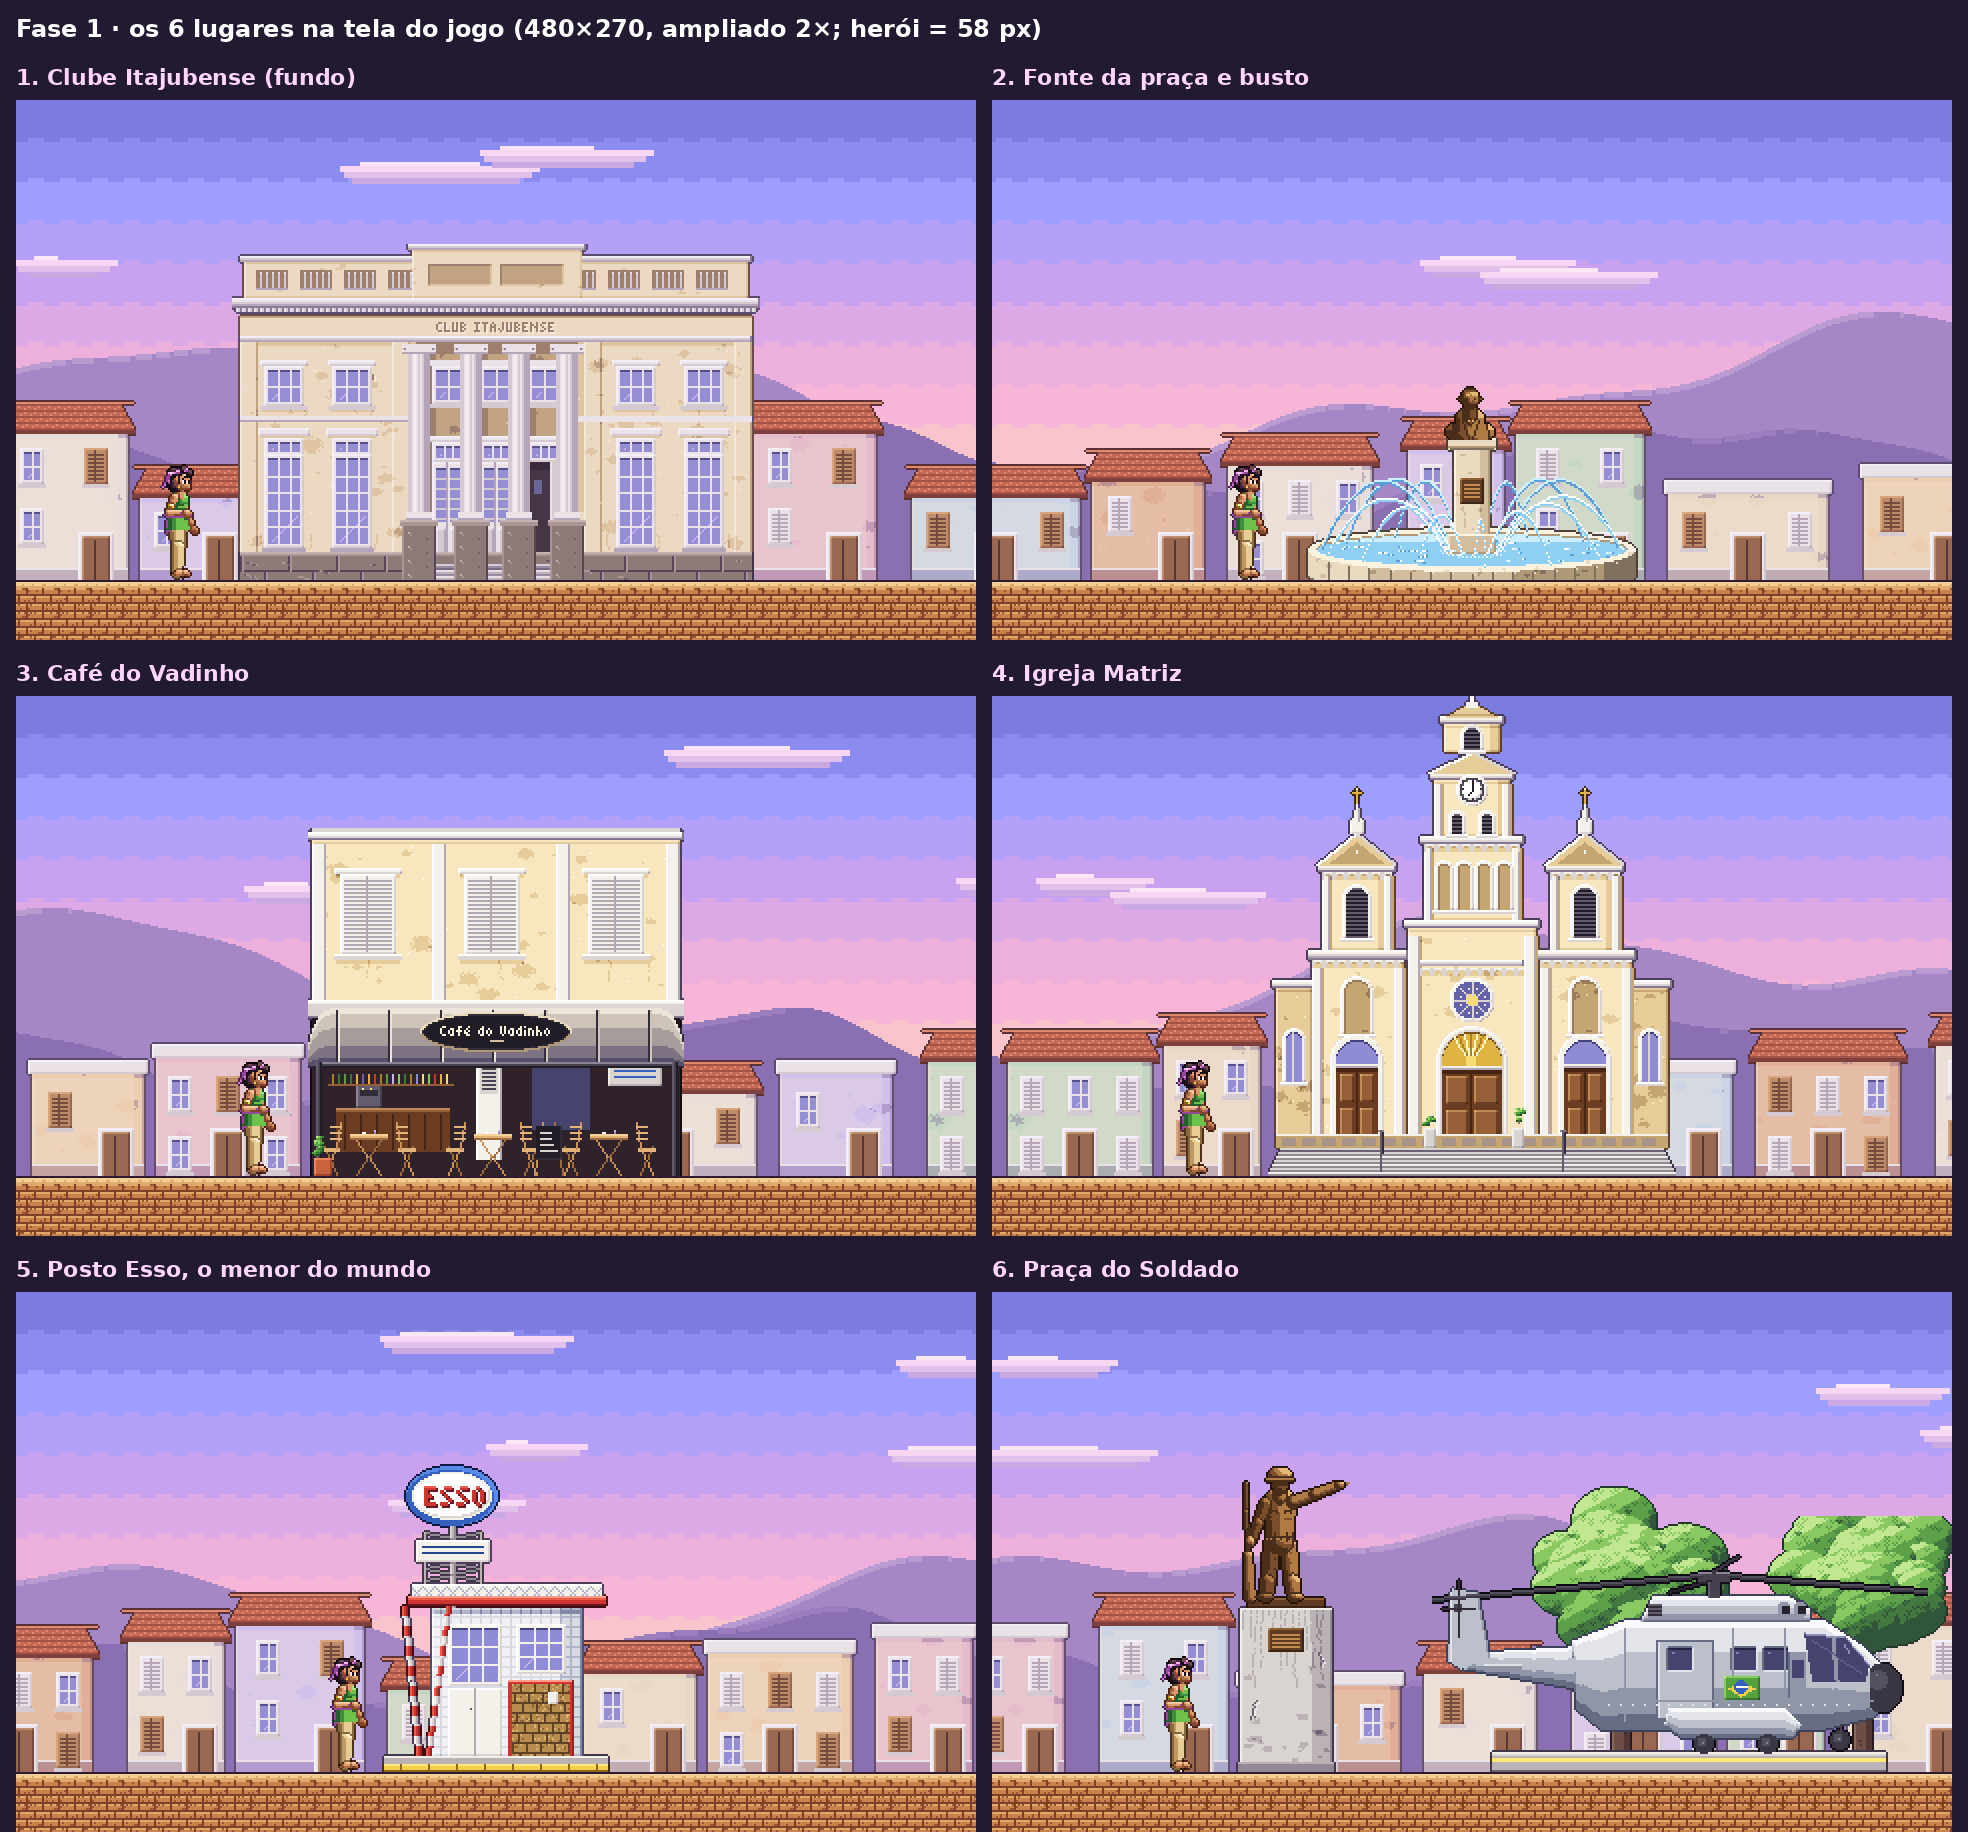
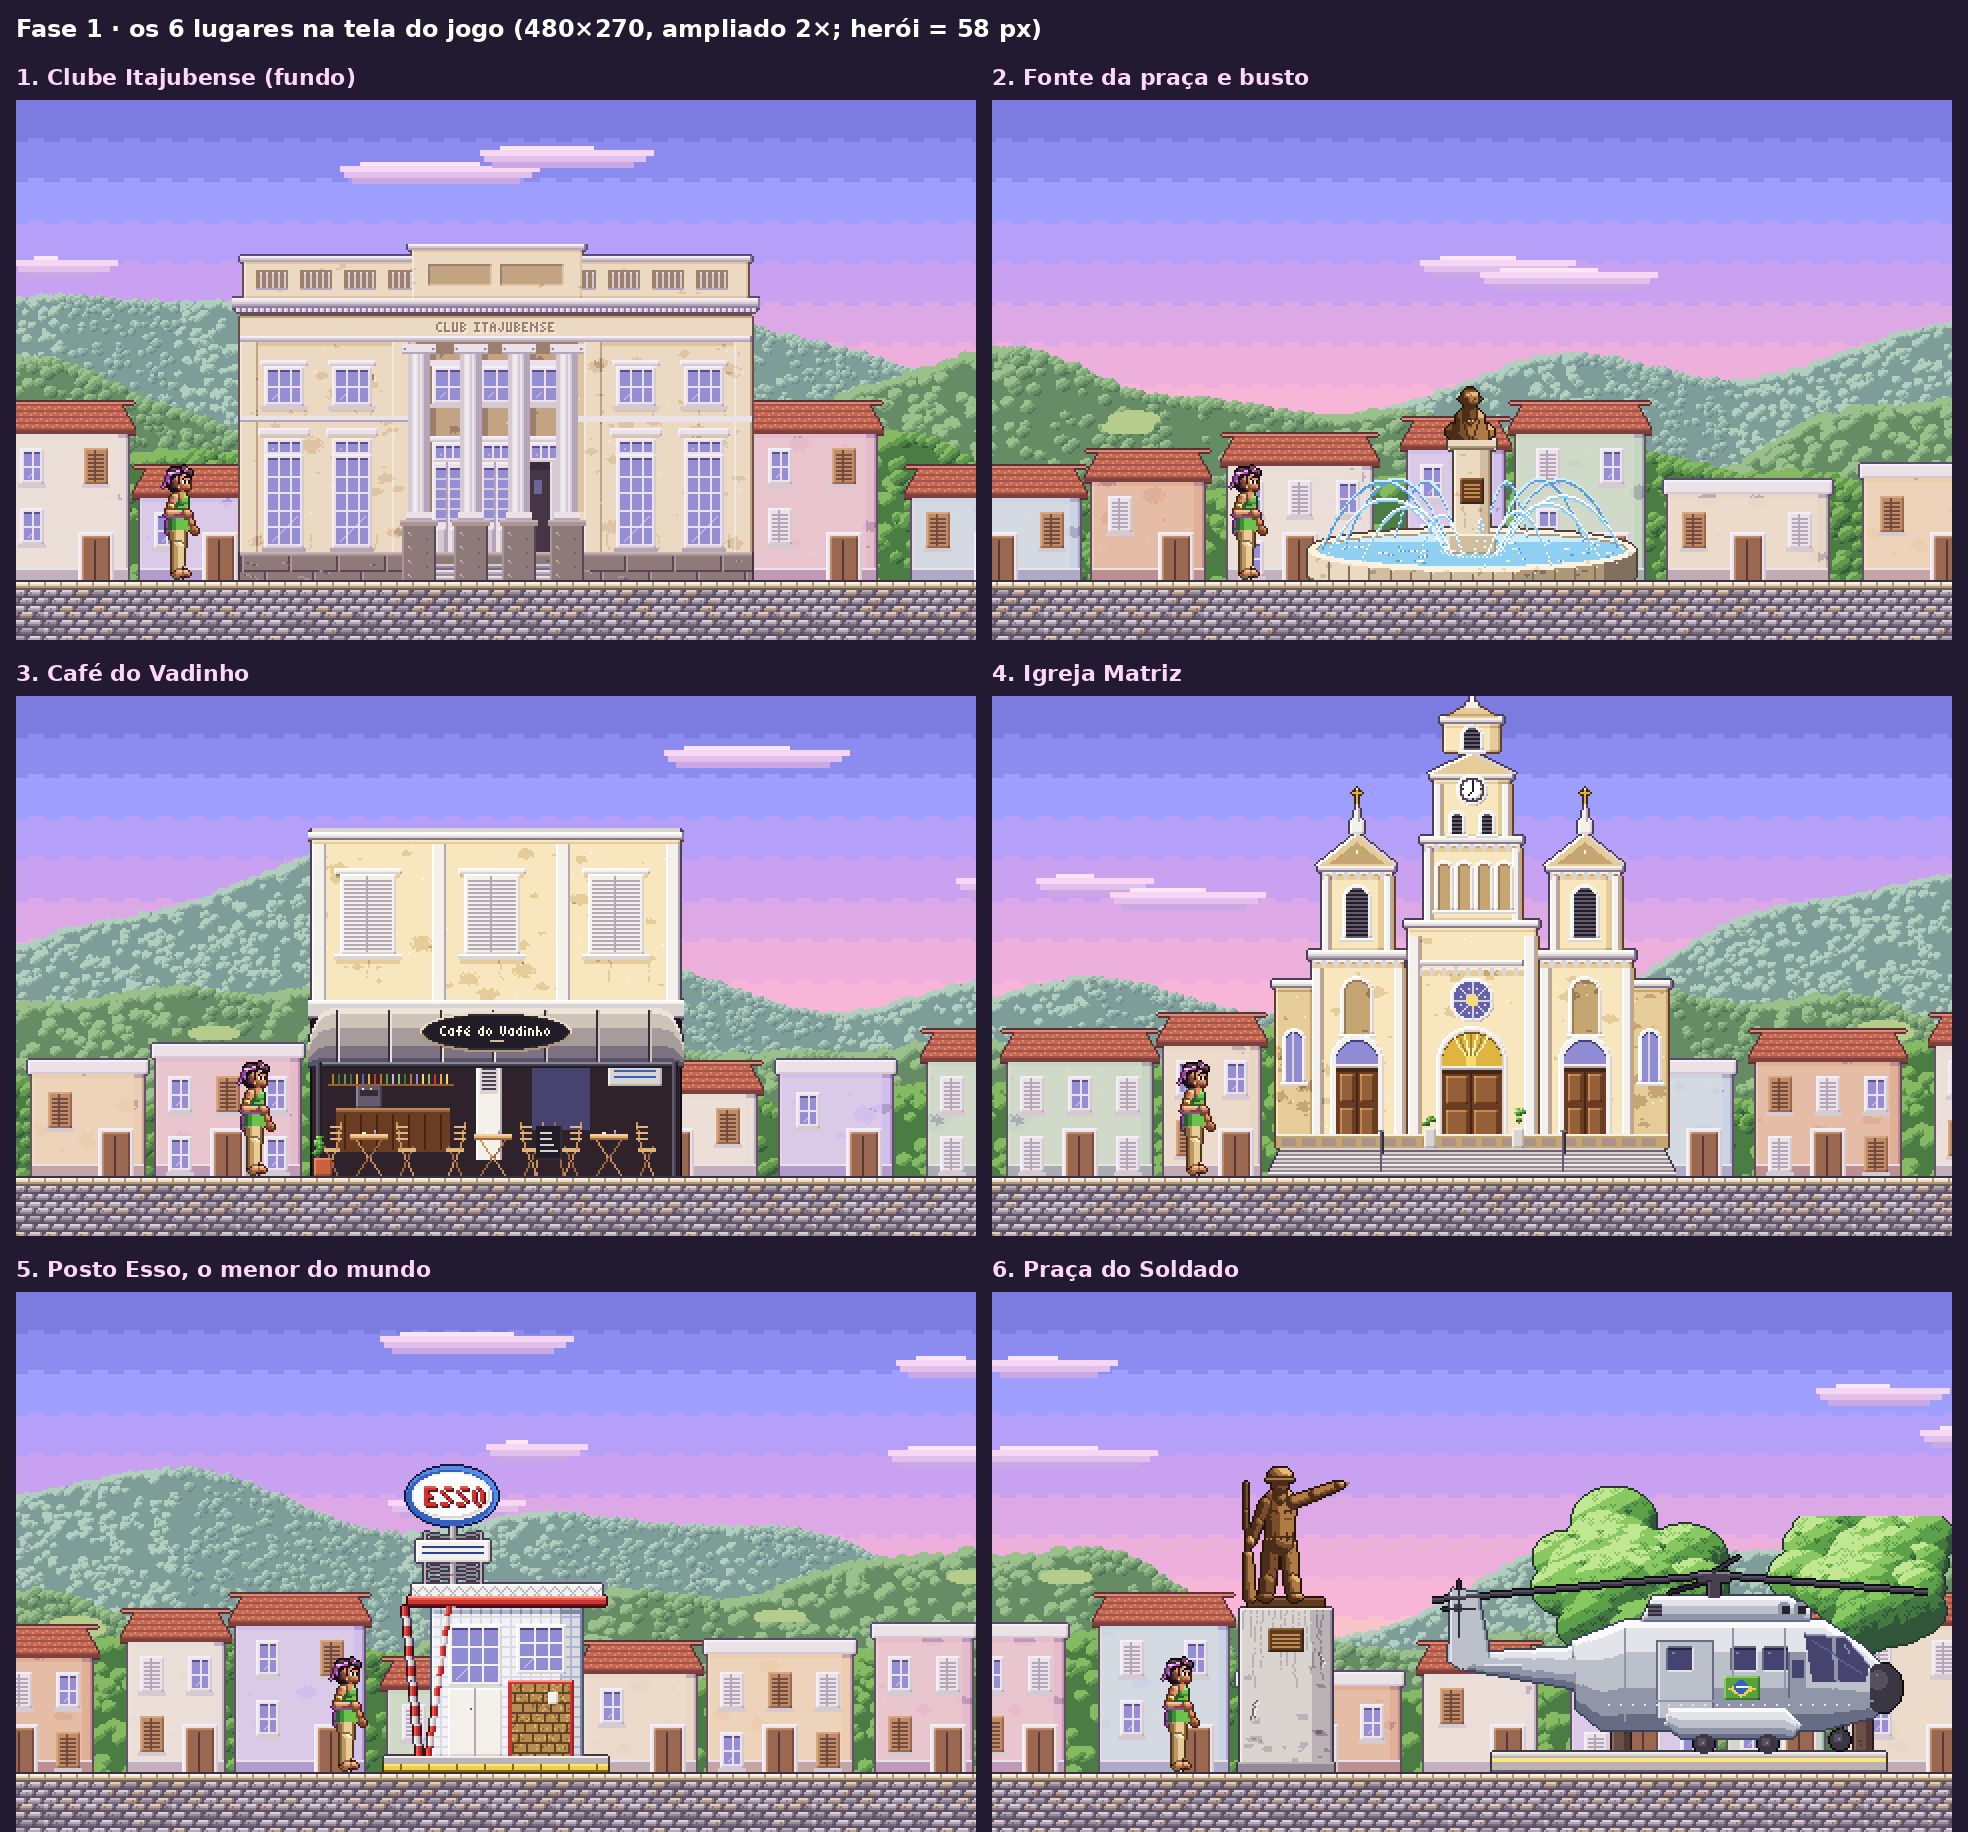
Prévia: rua de paralelepípedo e Serra da Mantiqueira verde com mata
Chão em tiles 16x16 de paralelepípedo (3 variações, meio-fio de granito) e
morros do fundo em 3 camadas verdes cobertas de copas, mais azuladas ao longe.
Pranchas, tira e telas regeneradas. Só prévia: src/ não foi alterado.

Claude-Session: https://claude.ai/code/session_01PQYRHCjcJDFveiPkYtVM8o

diff --git a/ferramentas/arte/gerar_lugares.py b/ferramentas/arte/gerar_lugares.py
@@ -1083,21 +1083,73 @@ def ceu(w, h=TELA_A):
     return img
 
 
+# Serra da Mantiqueira: 3 camadas verdes cobertas de mata. Quanto mais longe, mais azulada/lilás e com menos
+# contraste (perspectiva atmosférica, guia: fundo com 2 a 3 tons). Cada rampa: luz, base, sombra, funda.
+SERRA = [
+    # (rampa, base da crista, amplitude, frequências, raio das copas)
+    (['#B2CEBE', '#94B4A8', '#7E9C98', '#6E8890'], 132, 34, ((1.1, 1, 0.3), (2.7, 0.5, 1.2), (6.1, 0.15, 2)), 2.5),
+    (['#9CC08C', '#7FA676', '#668C66', '#527458'], 160, 24, ((1.7, 1, 2.1), (4.3, 0.4, 0.7), (9.7, 0.12, 1)), 3.5),
+    (['#86BA62', '#62994E', '#4A7C44', '#355E3A'], 188, 16, ((2.6, 1, 0.9), (6.2, 0.35, 2.4), (13, 0.1, 0.4)), 4.5),
+]
+
+
+def _copinha(a, cx, cy, r, rampa):
+    """Copa de árvore redonda vista de longe: luz em cima à esquerda, sombra embaixo à direita."""
+    h, w = a.shape[:2]
+    x0, x1 = max(0, int(cx - r - 1)), min(w, int(cx + r + 2))
+    y0, y1 = max(0, int(cy - r - 1)), min(h, int(cy + r + 2))
+    if x0 >= x1 or y0 >= y1:
+        return
+    yy, xx = np.mgrid[y0:y1, x0:x1]
+    dx, dy = (xx + 0.5 - cx) / r, (yy + 0.5 - cy) / (r * 0.85)
+    dentro = dx * dx + dy * dy <= 1
+    luz = -dx * 0.6 - dy * 0.8
+    tom = np.where(luz > 0.45, 0, np.where(luz > -0.15, 1, np.where(luz > -0.6, 2, 3)))
+    cores = np.array([hex_rgb(c) for c in rampa], np.uint8)
+    reg = a[y0:y1, x0:x1]
+    reg[dentro, :3] = cores[tom[dentro]]
+    reg[dentro, 3] = 255
+
+
 def morros(w, h=TELA_A):
-    """Serra ao fundo (Itajubá fica no pé da Mantiqueira): duas camadas lilás de pouco contraste."""
-    img = Image.new('RGBA', (w, h), (0, 0, 0, 0))
-    a = np.array(img)
-    for cor, cor_luz, base, amp, freqs in (
-            ('#A487C4', '#B99BD2', 150, 30, ((1.3, 1, 0), (3.1, 0.45, 1), (7.3, 0.12, 2))),
-            ('#8A6FB2', '#9A7EBE', 182, 20, ((2.2, 1, 2), (5.3, 0.3, 0.5), (11, 0.1, 1)))):
+    """Serra da Mantiqueira ao fundo (Itajubá fica no pé dela): morros verdes cobertos de mata."""
+    a = np.zeros((h, w, 4), np.uint8)
+    rnd = np.random.RandomState(12)
+    for rampa, base, amp, freqs, r in SERRA:
+        def crista(x):
+            return base - sum(amp * k * math.sin(x / 480 * math.pi * f + fa) for f, k, fa in freqs)
+        cores = [hex_rgb(c) for c in rampa]
+        # massa do morro: encosta virada para a luz (esquerda) mais clara, a outra na base
         for x in range(w):
-            y = base - sum(amp * a_ * math.sin(x / 480 * math.pi * f + fa) for f, a_, fa in freqs)
-            y = int(y)
-            a[y:, x, :3] = hex_rgb(cor)
+            y = int(crista(x))
+            a[y:, x, :3] = cores[2]
             a[y:, x, 3] = 255
-            yl = base - sum(amp * a_ * math.sin((x - 3) / 480 * math.pi * f + fa) for f, a_, fa in freqs)
-            if yl > y + 0.5:  # encosta que recebe luz (lado esquerdo dos picos)
-                a[y:y + 3, x, :3] = hex_rgb(cor_luz)
+        # encosta virada para a luz (morro subindo para a direita): copas um tom mais claras
+        clara = [rampa[0], rampa[0], rampa[1], rampa[2]]
+
+        def tons(xx):
+            return clara if crista(xx + 6) < crista(xx - 6) else rampa
+        # mata: copas encostadas umas nas outras na crista e espalhadas pela encosta
+        passo = max(2, int(r * 1.3))
+        for x in range(-4, w + 4, passo):
+            xx = x + rnd.uniform(-1, 1)
+            _copinha(a, xx, crista(xx) + rnd.uniform(-0.5, 1.5), r * rnd.uniform(0.8, 1.2), tons(xx))
+        n = int(w * (h - base + amp) / (r * r * 4))
+        for _ in range(n):
+            xx = rnd.uniform(0, w)
+            yy = crista(xx) + rnd.uniform(2, h - base + amp)
+            if yy < h:
+                _copinha(a, xx, yy, r * rnd.uniform(0.7, 1.15), tons(xx))
+        # clareiras de pasto (manchas mais claras e lisas), só na camada do meio
+        if r == 3.5:
+            for _ in range(w // 220):
+                cx, cy = rnd.uniform(0, w), 0
+                cy = crista(cx) + rnd.uniform(10, 22)
+                for yy in range(int(cy - 3), int(cy + 4)):
+                    meia = int(14 * math.sqrt(max(0, 1 - ((yy - cy) / 4) ** 2)))
+                    for xx in range(int(cx - meia), int(cx + meia)):
+                        if 0 <= xx < w and 0 <= yy < h and a[yy, xx, 3]:
+                            a[yy, xx, :3] = hex_rgb('#B6CC8A')
     return Image.fromarray(a, 'RGBA')
 
 
@@ -1180,10 +1232,62 @@ def tingir(img, cor, t):
     return Image.fromarray(a.clip(0, 255).astype(np.uint8), 'RGBA')
 
 
+# Chão de paralelepípedo (rua de Itajubá): meio-fio de granito no alto e pedras em fiadas desencontradas.
+# Tiles de 16x16 como os do jogo, em 3 variações para a repetição não aparecer.
+PEDRA = {   # granito cinza aquecido pelo entardecer: luz, base, sombra, junta, contorno
+    'fria': ['#DCD2D6', '#B6AAB4', '#8E8292', '#5E5268', '#3A3044'],
+    'quente': ['#E2CDBE', '#BCA294', '#937A74', '#5E5268', '#3A3044'],
+    'escura': ['#B8ACB6', '#968A98', '#766A7E', '#5E5268', '#3A3044'],
+}
+
+
+def tiles_paralelepipedo(semente):
+    rnd = np.random.RandomState(semente)
+    topo = np.zeros((16, 16, 4), np.uint8)
+    meio = np.zeros((16, 16, 4), np.uint8)
+    for t_, y_ini in ((topo, 5), (meio, 0)):
+        t_[:, :, 3] = 255
+        t_[:, :, :3] = hex_rgb(PEDRA['fria'][3])          # junta
+        for fiada in range((16 - y_ini) // 4 + 1):
+            y0 = y_ini + fiada * 4
+            desloc = 4 if (fiada + (0 if t_ is topo else 1)) % 2 else 0
+            for x0 in range(-8 + desloc, 16, 8):
+                c = PEDRA[rnd.choice(['fria', 'fria', 'quente', 'escura'])]
+                for y in range(y0, min(16, y0 + 3)):
+                    for x in range(x0, x0 + 7):
+                        if not 0 <= x < 16:
+                            continue
+                        if y == y0 and x < x0 + 6:
+                            tom = 0                          # aresta de cima pega luz
+                        elif x == x0 + 6 or y == y0 + 2:
+                            tom = 2                          # lado e pé na sombra
+                        else:
+                            tom = 1
+                        if (x == x0 and y == y0) or (x == x0 + 6 and y == y0 + 2):
+                            continue                         # cantos arredondados
+                        t_[y, x, :3] = hex_rgb(c[tom])
+                if rnd.rand() < 0.4:                         # desgaste: um pontinho escuro na pedra
+                    xx, yy = x0 + rnd.randint(1, 5), y0 + 1
+                    if 0 <= xx < 16 and yy < 16:
+                        t_[yy, xx, :3] = hex_rgb(c[2])
+    # meio-fio de granito claro no alto do tile de cima
+    gr = ['#3A3044', '#FBF2E0', '#EADBC0', '#AE9878', '#6E5E58']
+    for y, c in enumerate(gr):
+        topo[y, :, :3] = hex_rgb(c)
+    for x in range(0, 16, 8):                                # juntas do meio-fio
+        topo[1:4, x, :3] = hex_rgb('#AE9878')
+    return Image.fromarray(topo, 'RGBA'), Image.fromarray(meio, 'RGBA')
+
+
+TILES_RUA = [tiles_paralelepipedo(s) for s in (1, 2, 3)]
+
+
 def chao(w):
     img = Image.new('RGBA', (w, TELA_A), (0, 0, 0, 0))
-    topo, meio = tile('chaoTopo'), tile('chao')
+    rnd = np.random.RandomState(7)
     for x in range(0, w, 16):
+        topo, _ = TILES_RUA[rnd.randint(3)]
+        _, meio = TILES_RUA[rnd.randint(3)]
         img.alpha_composite(topo, (x, CHAO_Y))
         img.alpha_composite(meio, (x, CHAO_Y + 16))
     return img
@@ -1342,6 +1446,11 @@ if __name__ == '__main__':
         img = f()
         img.save(os.path.join(NATIVO, nome + '.png'))
         print(nome, img.size, contar_cores(img), 'cores')
+    folha = Image.new('RGBA', (16 * 3, 32))
+    for i, (tp, md) in enumerate(TILES_RUA):
+        folha.alpha_composite(tp, (16 * i, 0))
+        folha.alpha_composite(md, (16 * i, 16))
+    folha.save(os.path.join(NATIVO, 'tiles-paralelepipedo.png'))
     pan, lugares = panorama()
     pan.resize((pan.width * 2, pan.height * 2), Image.NEAREST).save(os.path.join(SAIDA, 'fase1-panorama.png'))
     telas(pan, lugares).save(os.path.join(SAIDA, 'fase1-telas.png'))

diff --git a/ferramentas/arte/previas/lugares/README.md b/ferramentas/arte/previas/lugares/README.md
@@ -9,11 +9,17 @@ estátuas de bronze).
 | `fase1-panorama.png` | tira da Fase 1 com os 6 lugares em ordem, casario, céu de entardecer, serra e o Aladdin (2×) |
 | `fase1-telas.png` | 6 telas de 480×270 do jogo, uma por lugar (2×) |
 | `1-clube-itajubense.png` … `6-praca-do-soldado.png` | prancha por lugar: foto × pixel art na mesma altura, com o Aladdin (58 px) |
+| `nativo/tiles-paralelepipedo.png` | chão novo da rua: 3 variações de tile 16×16 de paralelepípedo (topo com meio-fio + meio) |
 | `nativo/*.png` | cada lugar em 1×, pronto para virar textura (`cenario.para_matriz` gera a matriz de `src/art/`) |
 
 Medidas (herói = 58 px, chão em y = 240): igreja 244 px de altura (4,2 heróis), clube 178 px (camada do fundo, tingida
 16% para o lilás), café 174 px (toldo a 80 px do chão), posto 156 px com a placa (cabine 82 px), estátua no pedestal
 156 px (soldado ≈ 60 px), helicóptero 248×112 px, fonte 172×108 px.
+
+Fundo e chão (pedido do Pedro, 01/11/2026): rua de **paralelepípedo** de granito com meio-fio claro (no lugar do
+chão de pedra terracota atual) e **Serra da Mantiqueira** ao fundo em 3 camadas verdes cobertas de mata (copas
+redondas com luz de cima-esquerda; a camada mais longe é verde-azulada, com menos contraste, e a do meio tem
+clareiras de pasto). Só na prévia: `src/art/tiles.js` e o `Preload` ainda não mudaram.
 
 Padrão do guia aplicado: 5 tons por material (luz de cima e da esquerda-frente), contorno colorido do próprio
 material, sombra projetada sob as cornijas, reboco com manchas, escorridos e rachaduras, céu em faixas sem degradê,
